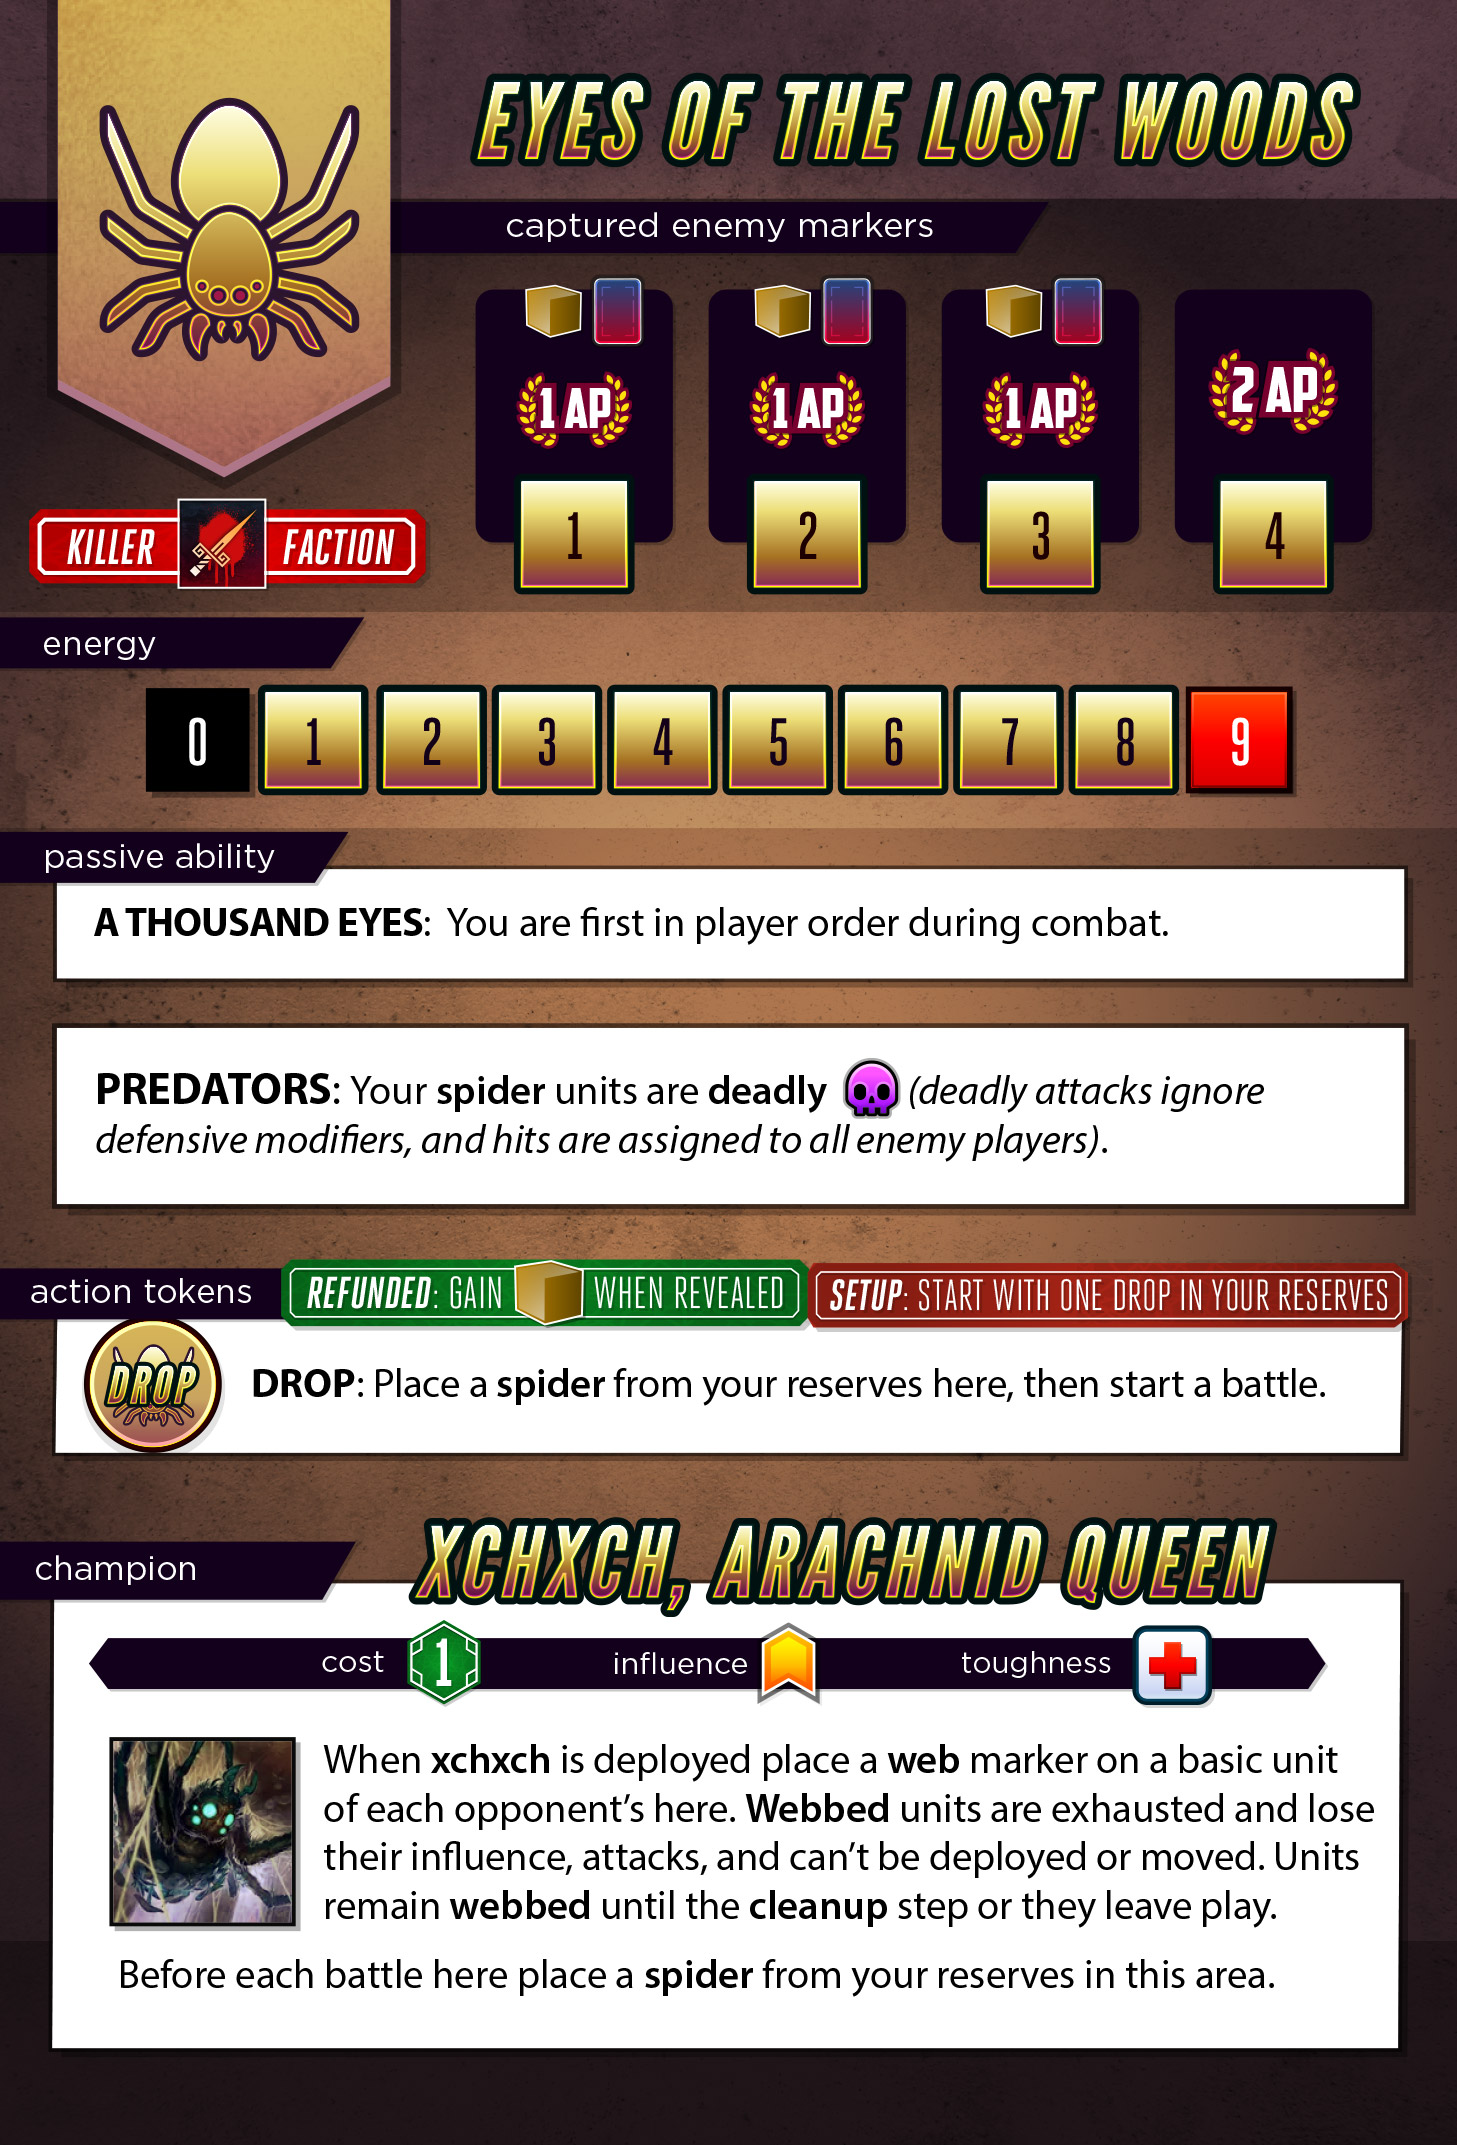
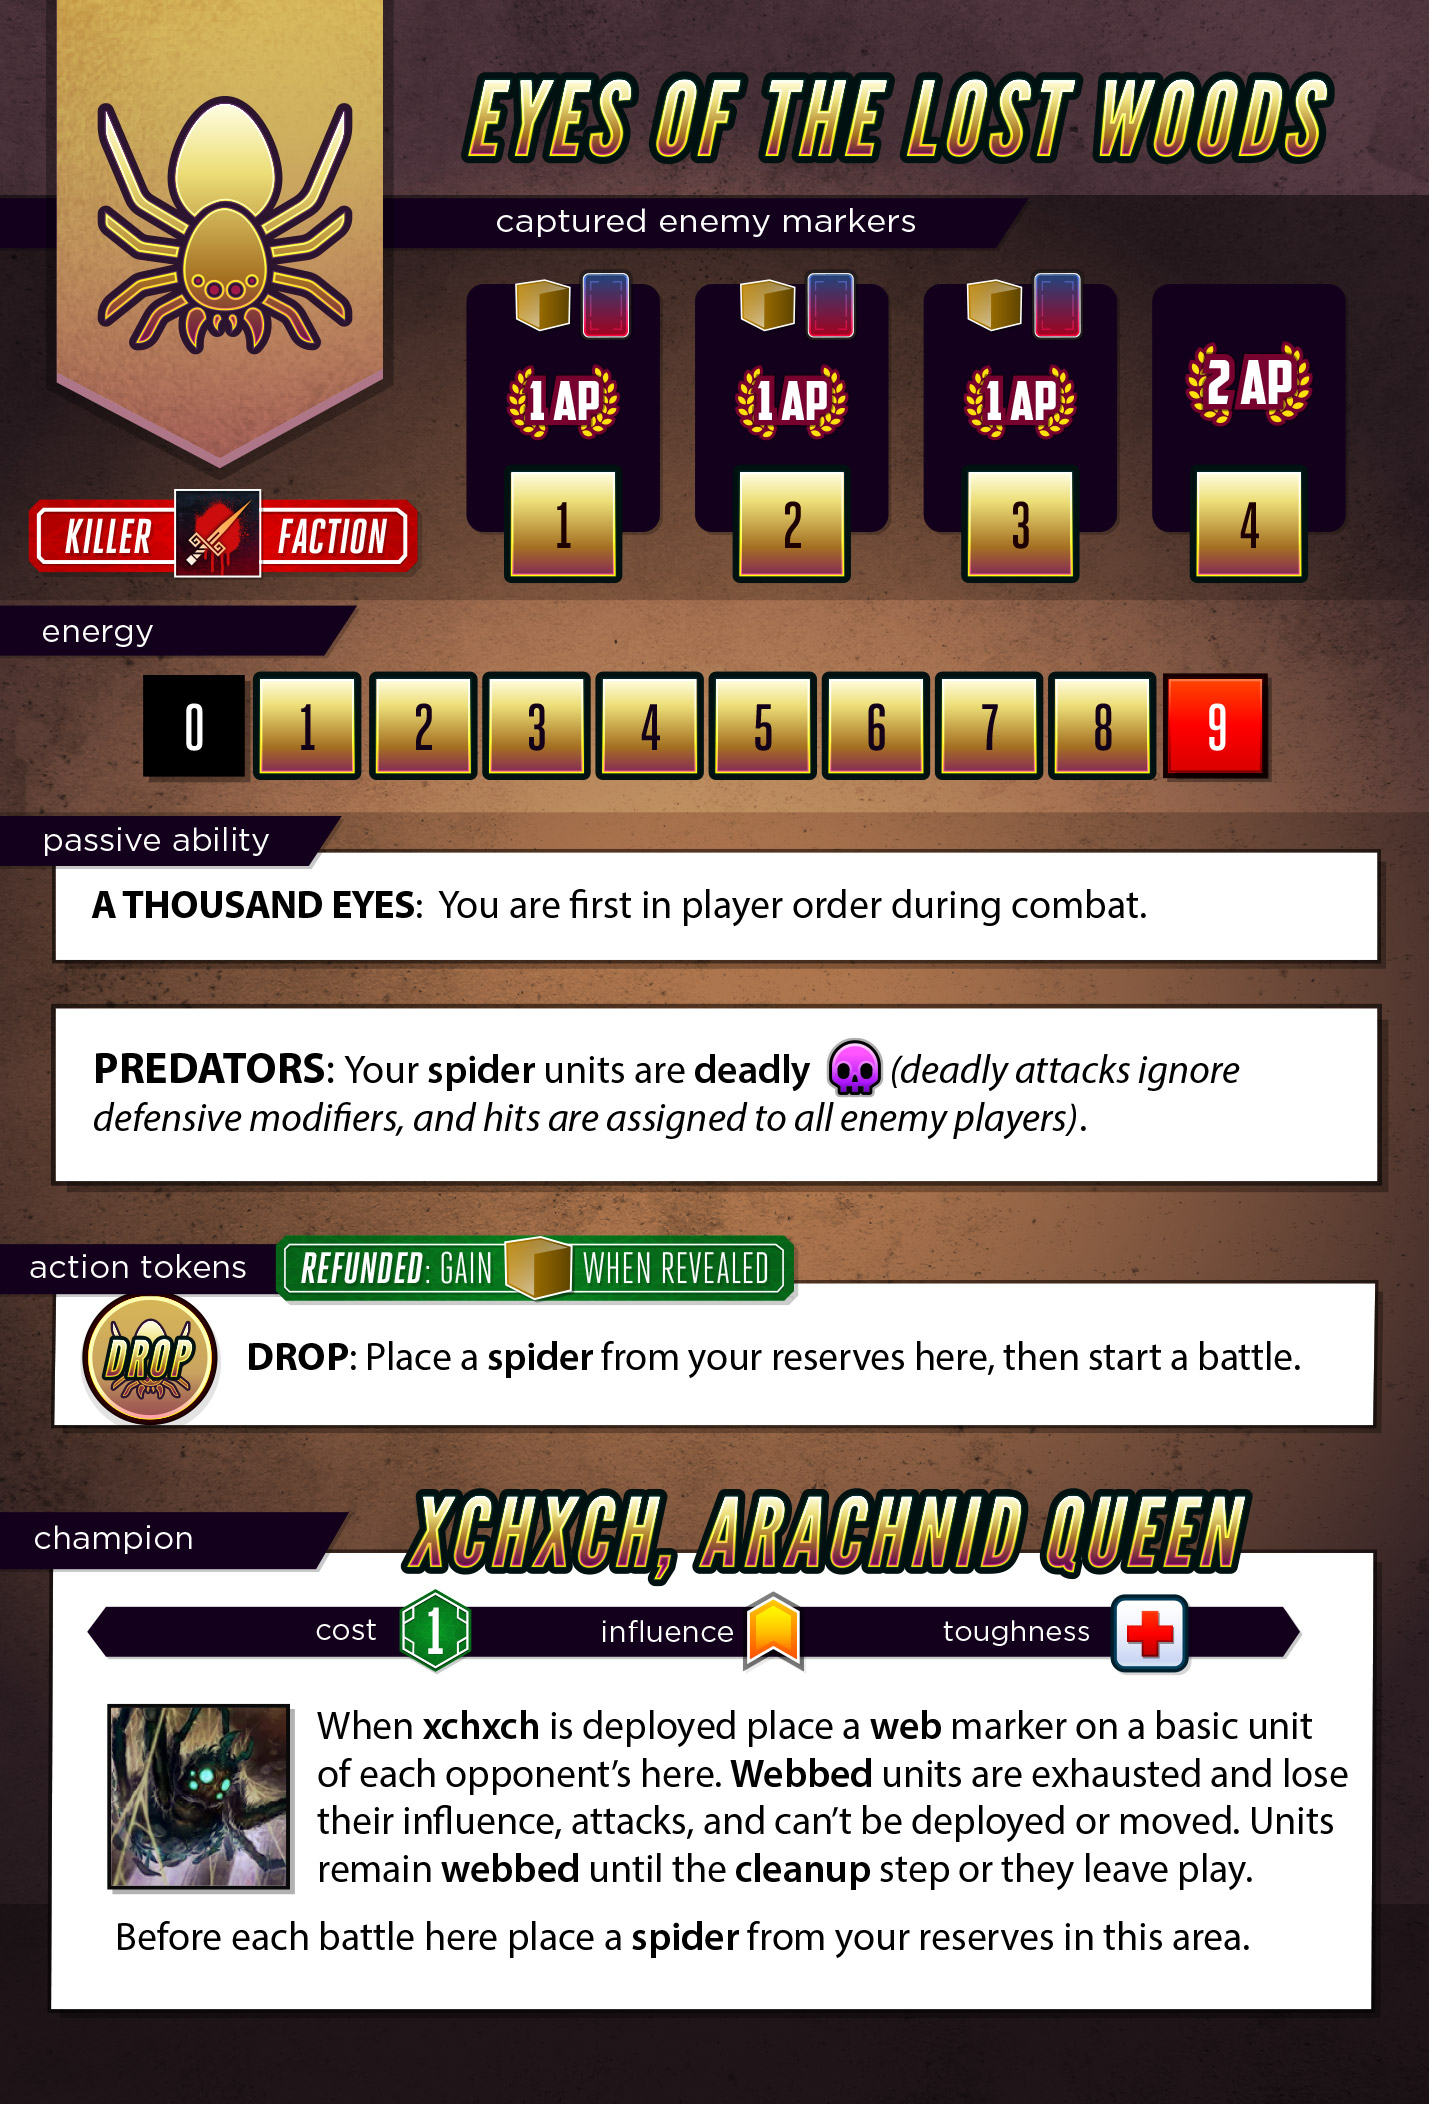
SPIDERS: Improve drop on upgrade instead of adding more

diff --git a/server/classes/factions/Spiders.js b/server/classes/factions/Spiders.js
@@ -9,7 +9,7 @@ class Spiders extends Faction {
 
         // triggers
         this.triggers = {
-            "onSetup" : "setupDropTokens",
+            //"onSetup" : "setupDropTokens",
             "onBeforeBattle" : "xchxchAmbushUnits"
         };
 
@@ -26,7 +26,7 @@ class Spiders extends Faction {
         this.data.drops = [];
 
         this.tokens['drop'] = {
-            count: 3,
+            count: 1,
             data: {
                 influence: 1,
                 type: 'drop',
@@ -111,6 +111,8 @@ class Spiders extends Faction {
     /**
      * Remove the vines tokens we haven't unlocked yet from our reserves
      */
+
+    /*
     setupDropTokens(){
         this.setupVariableItems({
             value: 'drop',
@@ -118,17 +120,21 @@ class Spiders extends Faction {
             reserves: this.data.tokens,
         });
     }
+    */
 
     /**
      * Process faction upgrade
      */
 
-    processUpgrade() {
-        // add additional vines tokens to our reserves
+    processUpgrade( upgrade ) {
+        this.data.dropDeploy = 1 + upgrade;
+
+        /*
         this.upgradeVariableItems({
             cache: this.data.drops,
             reserves: this.data.tokens,
         });
+        */
     }
 
 
@@ -231,7 +237,7 @@ class Spiders extends Faction {
      */
     async activateDropToken( args ) {
         // poop out spiders
-        let units = await this.resolveSpawnSpiders( args.area, 1, `Spiders drop from above in The ${args.area.name}` );
+        let units = await this.resolveSpawnSpiders( args.area, this.data.dropDeploy, `Spiders drop from above in The ${args.area.name}` );
 
         // if we have no spiders to place, log the error
         if( !units.length ) this.message( 'No more spiders in reserves to place', { class : 'warning' });
